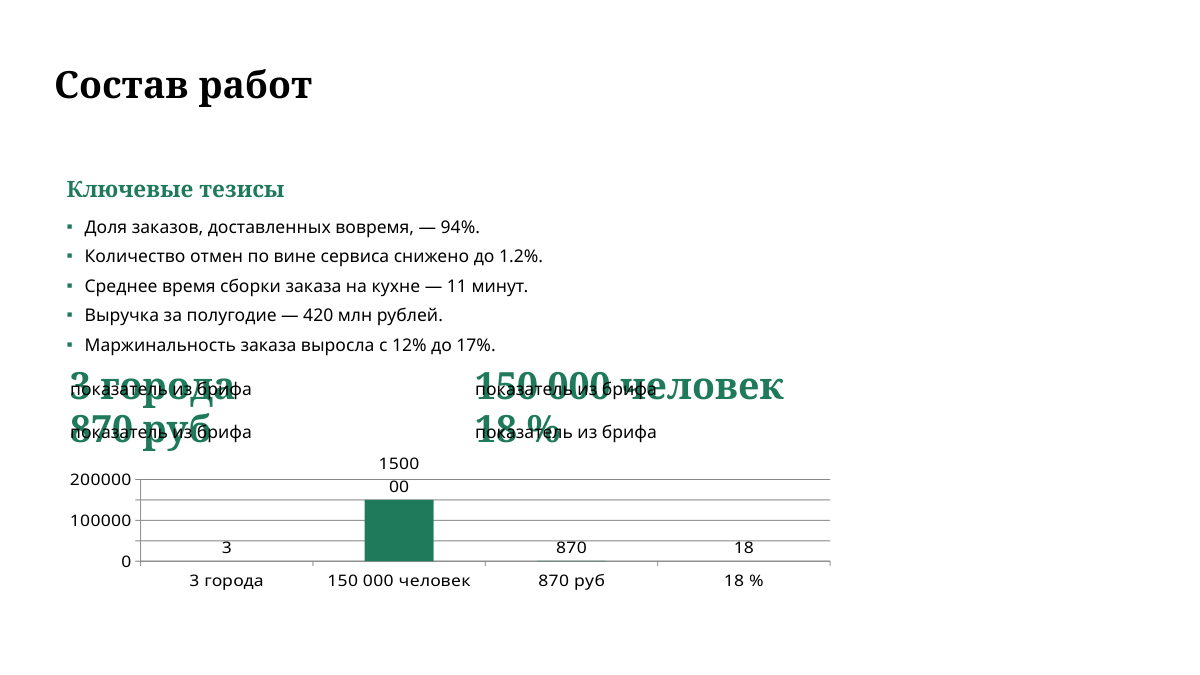
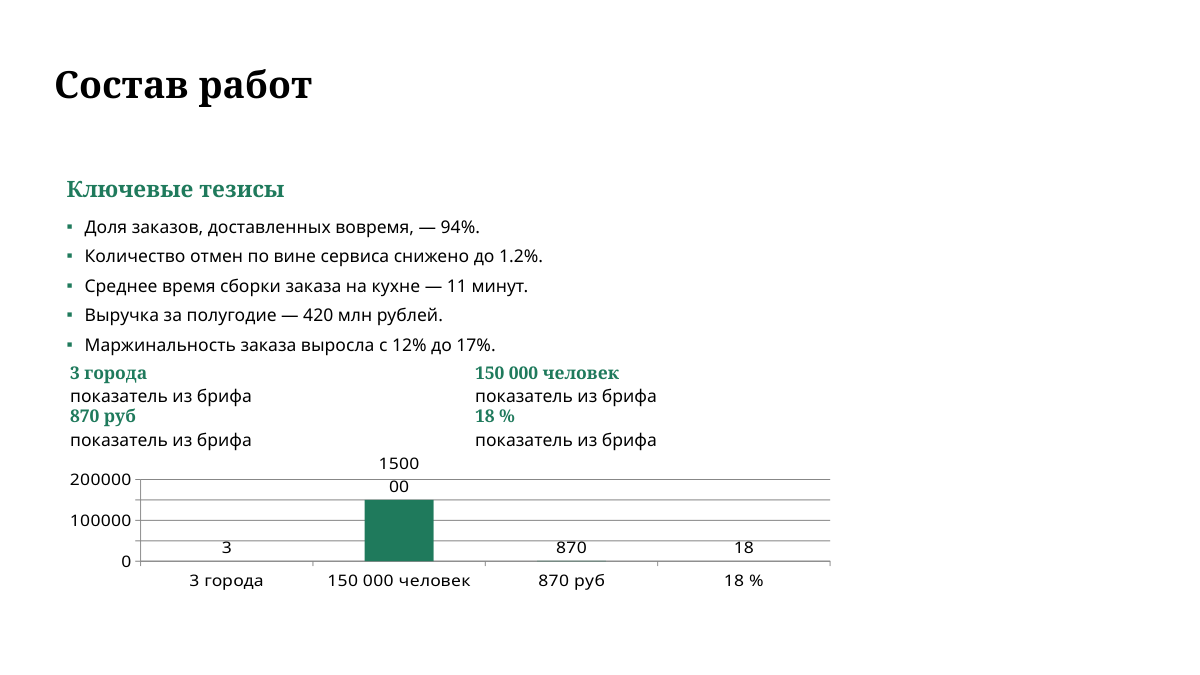
docs: воспроизводимость на чистой машине (этап G)
- docs/REPRODUCIBILITY.md: пошаговый лог проверки на чистой машине
  (клон без .env, docker compose up --build, health, импорт встроенного
  контент-пакета, генерация 135 с, PPTX/PDF/HTML, проверка редактируемости
  объектов, аудит), таблица найденных и исправленных дефектов, ограничения;
- README: 'Быстрый старт' заменён на проверенную последовательность,
  провайдер по умолчанию — ollama (зачётная конфигурация без .env),
  рекомендация для CPU (VLM_AUDIT_ENABLED=false);
- docs/README: провайдеры по умолчанию и таблица переменных приведены
  к реальности (GROUNDING_OFF_SOURCE_THRESHOLD, OLLAMA_TIMEOUT_S, VLM_*);
- docs/evidence/repro: UI-скриншот и миниатюры слайдов чистого прогона.

Changed region(s): [[0.4008, 0.5289, 0.6475, 0.6844], [0.0617, 0.5289, 0.2158, 0.6844]]

diff --git a/docs/REPRODUCIBILITY.md b/docs/REPRODUCIBILITY.md
@@ -1,0 +1,150 @@
+# Воспроизводимость: проверка на чистой машине (этап G)
+
+> Требование сдачи: «с нуля до работающей презентации за одну команду, без
+> ручных правок». Здесь — пошаговый лог реальной проверки, а не инструкция
+> по памяти. Проверка выполнена на коммите `9e89574` (после неё менялись
+> только документы).
+
+## 0. Условия проверки
+
+| Параметр | Значение |
+|---|---|
+| Машина | Windows 11, Docker Desktop 4.x, **без GPU** (CPU-инференс) |
+| Чистый каталог | `C:\temp\clean-checkout` (латиница: на кириллическом пути Docker BuildKit падает, см. §5) |
+| Исходники | `git clone` из рабочего репозитория (аналог клонирования с GitHub) |
+| `.env` | **отсутствует**: проверялось, что `docker compose up` работает без него |
+| Коммит | `9e89574` |
+
+## 1. Клон без локальных настроек
+
+```
+$ git clone <repo> C:\temp\clean-checkout
+done.
+$ Test-Path C:\temp\clean-checkout\.env
+False
+$ Get-ChildItem C:\temp\clean-checkout\data -Recurse
+data\.gitkeep
+data\templates\.gitkeep
+```
+
+В клоне нет ни `.env`, ни шаблонов, ни контент-пакетов: только код, тесты,
+встроенные примеры (`examples/synthetic_16x9.pptx`, `examples/builtin_corpus.md`)
+и JSON-профили шаблонов.
+
+## 2. Одна команда
+
+```
+$ docker compose up --build -d
+...
+ Container dp-ollama Started
+ Container dp-ollama Healthy
+ Container dp-backend Started
+ Container dp-frontend Started
+# первая сборка (BuildKit, кэш пустой): 4.2 мин
+# повторная сборка (кэш слоёв): 0.2–0.3 мин
+```
+
+Первый старт контейнера `ollama` скачивает модели: `qwen2.5:7b-instruct` (4.7 ГБ),
+`qwen2.5vl:7b` (6.0 ГБ), `bge-m3` (1.2 ГБ) — около 12 ГБ, на проверке ~9 минут.
+Маркер `/tmp/models-ready` создаётся после скачивания, поэтому `backend`
+стартует только когда модели на месте (healthcheck контейнера `ollama`).
+
+```
+$ docker compose ps
+dp-backend   Up   (порты 8000)
+dp-frontend  Up   (порты 3000)
+dp-ollama    Up   (healthy, порты 11434)
+```
+
+## 3. Готовность и генерация
+
+```
+$ curl -s localhost:8000/api/health
+LLM: ollama/qwen2.5:7b-instruct available=True
+VLM: ollama/qwen2.5vl:7b       available=True
+
+$ POST /api/content/import  (examples/builtin_corpus.md)
+corpus_id=585d68cd0e21, секций 5, чисел 14
+
+$ POST /api/generate  (examples/synthetic_16x9.pptx, встроенный бриф, corpus_id)
+job_id=79e02b259eeb → done за 135.4 c
+стадии: parse 0.62 c · plan 120.09 c · render 0.40 c · audit 0.83 c ·
+        grounding 9.96 c · итого 131.9 c
+слайдов 8, планировщик: offline-fallback (см. §4)
+```
+
+Экспорты (все три из одного задания):
+
+| Формат | Код | Размер | Как проверяли |
+|---|---|---|---|
+| PPTX | 200 | 44 КБ | открыт python-pptx и LibreOffice (PDF-рендер), объекты нативные |
+| PDF | 200 | 34 КБ | LibreOffice headless (тот же путь, что в UI) |
+| HTML | 200 | 7 КБ | самостоятельная страница со стилями шаблона |
+| PNG-миниатюра | 200 | 25 КБ | `/api/jobs/{id}/thumb` — путь миниатюр UI |
+
+**Редактируемость PPTX** (проверено скриптом): 8 слайдов, 28 текстовых фигур
+(45 runs), 1 диаграмма, 0 растровых снимков слайдов; каждый текст — фигура
+PowerPoint с runs, то есть редактируется в PowerPoint/LibreOffice.
+
+**Аудит**: ошибок 0 во всех трёх вариантах; в `compact` одно замечание
+grounding (`близость 0.43 < 0.45`), в `cards`/`split` — замечания
+`text_overflow` на плотном слайде с тремя блоками (задача слоя layout,
+этап D). Аудит честно помечает и офлайн-планировщик: в отчёте задания
+`planning: offline-fallback`, а не «модель».
+
+## 4. Почему на CPU офлайн-планировщик, и что рекомендовано
+
+Локальная Qwen2.5-7B на CPU не отвечает за 120 с (`OLLAMA_TIMEOUT_S`), поэтому
+сервис честно переключается на офлайн-планировщик: колода, вёрстка, аудит и
+экспорт работают полностью, в отчёте видно `offline-fallback`.
+
+VLM-аудит на CPU не влезает в бюджет стадии: модель не успевает обработать
+изображение слайда. В `.env` из `.env.example` для CPU рекомендовано
+`VLM_AUDIT_ENABLED=false` — тогда полный прогон занимает **135 с** и
+детерминированный аудит + grounding работают без ограничений.
+
+На GPU (или через внешний шлюз, ADR-020) работают все стадии: замеры — в
+`docs/DEMO.md` (репетиция 216 с из 420) и `data/output/external/report.json`
+(3 сторонних шаблона × 3 варианта, 141–303 с на шаблон с VLM).
+
+## 5. Что нашла проверка и что исправлено
+
+Проверка на чистой машине нашла реальные дефекты, которых не видел локальный
+прогон (в локальном `.env` стоял внешний шлюз, а не локальные веса):
+
+| Коммит | Что было |
+|---|---|
+| `e63bd0b` | в репозитории не было встроенного шаблона и контент-пакета для быстрого старта; `.env.example` по умолчанию включал внешний шлюз |
+| `4590213` | `docker-compose.yml` тянул `qwen2.5-vl:7b-instruct` — такого тега в Ollama нет (нужен `qwen2.5vl:7b`), `bge-m3` не скачивался вовсе: VLM-аудит получал 404, grounding молча пропускал проверку смысла |
+| `994f8ae` | бюджет стадии VLM только помечал слайды, но не ограничивал запросы: на CPU стадия занимала 906 с вместо 180 |
+| `81758e9` | если модель не отвечает ни на один слайд, стадия ждала все волны; теперь останавливается |
+| `9e89574` | проверка `text_overflow` сравнивала дюймы с EMU и не срабатывала никогда — наложения factoid-подписей проходили как «чисто»; заодно исправлены рамки factoid'ов и подбор кегля |
+| `5a51a1a` | плавающий сбой теста: кэш профилей ключевался по `id(bytes)` |
+
+## 6. Ограничения и заметки
+
+* **Первая сборка** — 4–9 минут (npm/pip + образы), первый старт — ещё
+  ~9 минут на модели (~12 ГБ). Дальше `docker compose up` занимает секунды.
+* **Кириллический путь**: `docker compose build` падает на BuildKit из-за
+  кириллицы в пути; лечится `DOCKER_BUILDKIT=0` (см. troubleshooting в
+  `docs/README.md`). На латинском пути (`C:\temp\clean-checkout`) сборка
+  проходит штатно.
+* **`docker compose config` печатает ключи** из `.env` — не публикуйте вывод.
+* **Скриншоты**: UI — `docs/evidence/repro/ui_main.png` (headless Chrome,
+  состояние чистого клона: форма, встроенный бриф, селекторы `ollama`);
+  слайды — `docs/evidence/repro/clean_slide_1..5.png` (миниатюры API, тот же
+  рендер, что видит судья в UI).
+* **Логи задания** остаются в `data/jobs/{id}/` (переживают рестарт контейнера,
+  ADR-016), поэтому проверку можно повторить на тех же данных.
+
+## 7. Как повторить (короткая версия)
+
+```bash
+git clone <repo> && cd <repo>
+docker compose up --build            # первая сборка 4–9 мин, модели ~12 ГБ
+# UI:  http://localhost:3000  →  выбрать examples/synthetic_16x9.pptx,
+#      при желании examples/builtin_corpus.md, «Сгенерировать 3 варианта»
+# API: http://localhost:8000/docs
+```
+
+На CPU-машине перед запуском: `cp .env.example .env` и `VLM_AUDIT_ENABLED=false`.

diff --git a/docs/README.md b/docs/README.md
@@ -107,8 +107,8 @@ python tools/import_corpus.py data/templates/content_pack.pptx --text
 
 | Переменная | По умолчанию | Назначение |
 |---|---|---|
-| `LLM_PROVIDER` | `aitunnel` | `aitunnel` (шлюз с моделями Qwen, ADR-020), `ollama` (эталон сдачи: открытые веса, локально) или `openai_compat` (ADR-019) |
-| `VLM_PROVIDER` | `aitunnel` | провайдер VLM-аудита: `aitunnel`, `ollama`, `openai_compat` или `off` |
+| `LLM_PROVIDER` | `ollama` | `ollama` (эталон сдачи: открытые веса, локально — и без `.env`), `aitunnel` (шлюз с моделями Qwen, ADR-020) или `openai_compat` (ADR-019) |
+| `VLM_PROVIDER` | `ollama` | провайдер VLM-аудита: `ollama`, `aitunnel`, `openai_compat` или `off` |
 | `AITUNNEL_BASE_URL` | `https://api.aitunnel.ru/v1` | адрес OpenAI-совместимого API AITUNNEL |
 | `AITUNNEL_API_KEY` | — | ключ AITUNNEL; хранится только в `.env` |
 | `AITUNNEL_LLM_MODEL` / `_VLM_MODEL` | `qwen3.5-9b` | мультимодальная Qwen: планировщик и VLM-аудит |
